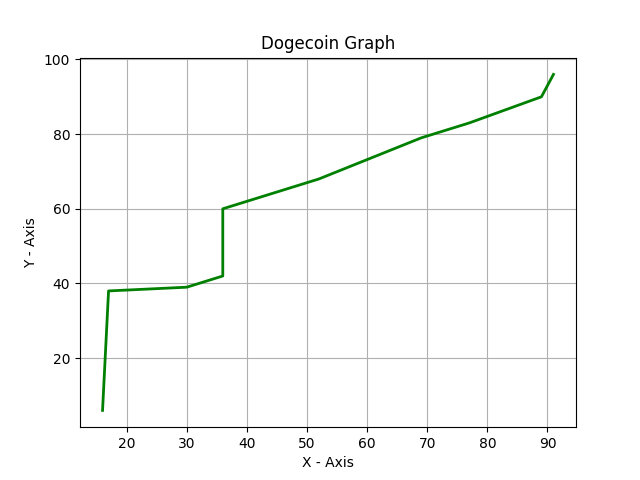
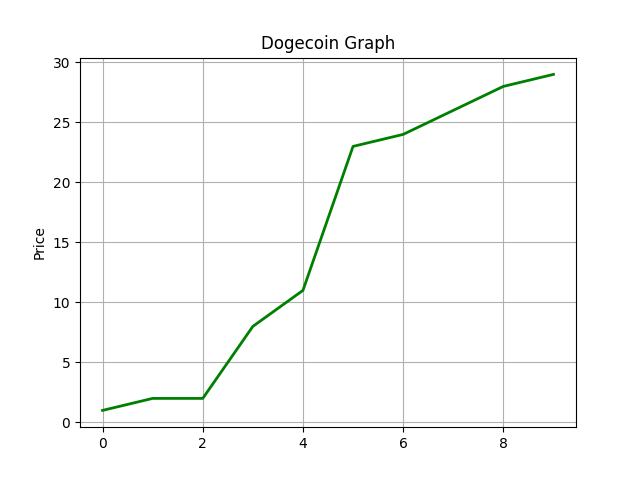
Changed Learn Page to News
Changed Learn Page to News and Updated

diff --git a/templates/explore.html b/templates/explore.html
@@ -2,7 +2,7 @@
 <html lang="en">
 <head>
     <meta charset="UTF-8">
-    <title>Information</title>
+    <title>Crypto Currency Forecasting Model</title>
     <link rel= "stylesheet" type="text/css" href="../static/main.css">
     <script type="text/javascript" src="https://files.coinmarketcap.com/static/widget/currency.js"></script>
 </head>
@@ -14,7 +14,7 @@
             <tr>
                 <td style="font-size:30px;"><a href="/" style = padding-right:20px;>Home</a></td>
                 <td style="font-size:30px;"><a href="explore" style = padding-right:20px;>Explore</a></td>
-                <td style="font-size:30px;"><a href="learn" style = padding-right:20px;>Learn</a></td>
+                <td style="font-size:30px;"><a href="news" style = padding-right:20px;>News</a></td>
                 <td style="font-size:30px;"><a href="aboutus">About Us</a></td>
             </tr>
         </table>

diff --git a/templates/news.html b/templates/news.html
@@ -2,7 +2,7 @@
 <html lang="en">
 <head>
     <meta charset="UTF-8">
-    <title>Home Page</title>
+    <title>News</title>
     <link rel= "stylesheet" type="text/css" href="../static/main.css">
 </head>
 <body>
@@ -19,10 +19,9 @@
         <hr color = "gray">
     </div>
 
-    <p style="font-size:50;">
-        Welcome to the website! This website will be a guide to help you learn more about cryptocurrency. <br>There is also a model that
-        is used to predict the prices of cryptocurrency using K-NN and sentimental analysis from Twitter.
-    </p>
+    <rssapp-wall id="tpPZbQNGxJxT71Wx"></rssapp-wall><script src="https://widget.rss.app/v1/wall.js" type="text/javascript" async></script>
+
+    </div>
 
 </body>
 </html>

diff --git a/templates/aboutus.html b/templates/aboutus.html
@@ -14,7 +14,7 @@
             <tr>
                 <td style="font-size:30px;"><a href="/" style = padding-right:20px;>Home</a></td>
                 <td style="font-size:30px;"><a href="explore" style = padding-right:20px;>Explore</a></td>
-                <td style="font-size:30px;"><a href="learn" style = padding-right:20px;>Learn</a></td>
+                <td style="font-size:30px;"><a href="news" style = padding-right:20px;>News</a></td>
                 <td style="font-size:30px;"><a href="aboutus">About Us</a></td>
             </tr>
         </table>

diff --git a/app.py b/app.py
@@ -1,147 +1,108 @@
-import io
 import os
-import random
 import matplotlib.pyplot as plt
-import pandas as pd
 import numpy as np
-from flask import Flask, render_template, Response
-from flask_sqlalchemy import SQLAlchemy
-from datetime import datetime
+from flask import Flask, render_template
 
-from matplotlib.backends.backend_template import FigureCanvas
-
-app= Flask(__name__)
-app.config['SQLALCHEMY_DATABASE_URI'] = 'sqlite:///information.db'
-db = SQLAlchemy(app)
+app = Flask(__name__)
 
 graphUpload = os.path.dirname('static/image')
 picFolder = os.path.join('static','image')
 
-x = np.random.randint(100, size=10)
-y = np.random.randint(100, size=10)
-x.sort()
+y = np.random.randint(20000, size=10)
 y.sort()
-plt.plot(x, y, color = "green", linewidth = 2)
+plt.plot(y, color = "green", linewidth = 2)
 plt.title("Bitcoin Graph")
-plt.xlabel("X - Axis")
-plt.ylabel("Y - Axis")
+plt.ylabel("Price")
 plt.grid(True)
 
 plt.savefig(graphUpload + '/image/BTCGraph.png')
 plt.clf()
 
-x = np.random.randint(100, size=10)
-y = np.random.randint(100, size=10)
-x.sort()
+y = np.random.randint(1500, size=10)
 y.sort()
-plt.plot(x, y, color = "green", linewidth = 2)
+plt.plot(y, color = "green", linewidth = 2)
 plt.title("Ethereum Graph")
-plt.xlabel("X - Axis")
-plt.ylabel("Y - Axis")
+plt.ylabel("Price")
 plt.grid(True)
 
 plt.savefig(graphUpload + '/image/ETHGraph.png')
 plt.clf()
 
-x = np.random.randint(100, size=10)
-y = np.random.randint(100, size=10)
-x.sort()
+y = np.random.randint(300, size=10)
 y.sort()
-plt.plot(x, y, color = "green", linewidth = 2)
+plt.plot(y, color = "green", linewidth = 2)
 plt.title("BNB Graph")
-plt.xlabel("X - Axis")
-plt.ylabel("Y - Axis")
+plt.ylabel("Price")
 plt.grid(True)
 
 plt.savefig(graphUpload + '/image/BNBGraph.png')
 plt.clf()
 
-x = np.random.randint(100, size=10)
 y = np.random.randint(100, size=10)
-x.sort()
 y.sort()
-plt.plot(x, y, color = "green", linewidth = 2)
+plt.plot(y, color = "green", linewidth = 2)
 plt.title("XRP Graph")
-plt.xlabel("X - Axis")
-plt.ylabel("Y - Axis")
+plt.ylabel("Price")
 plt.grid(True)
 
 plt.savefig(graphUpload + '/image/XRPGraph.png')
 plt.clf()
 
-x = np.random.randint(100, size=10)
-y = np.random.randint(100, size=10)
-x.sort()
+y = np.random.randint(50, size=10)
 y.sort()
-plt.plot(x, y, color = "green", linewidth = 2)
+plt.plot(y, color = "green", linewidth = 2)
 plt.title("Cardano Graph")
-plt.xlabel("X - Axis")
-plt.ylabel("Y - Axis")
+plt.ylabel("Price")
 plt.grid(True)
 
 plt.savefig(graphUpload + '/image/ADAGraph.png')
 plt.clf()
 
-x = np.random.randint(100, size=10)
-y = np.random.randint(100, size=10)
-x.sort()
+y = np.random.randint(40, size=10)
 y.sort()
-plt.plot(x, y, color = "green", linewidth = 2)
+plt.plot(y, color = "green", linewidth = 2)
 plt.title("Solana Graph")
-plt.xlabel("X - Axis")
-plt.ylabel("Y - Axis")
+plt.ylabel("Price")
 plt.grid(True)
 
 plt.savefig(graphUpload + '/image/SOLGraph.png')
 plt.clf()
 
-x = np.random.randint(100, size=10)
-y = np.random.randint(100, size=10)
-x.sort()
+y = np.random.randint(10, size=10)
 y.sort()
-plt.plot(x, y, color = "green", linewidth = 2)
+plt.plot(y, color = "green", linewidth = 2)
 plt.title("Terra Graph")
-plt.xlabel("X - Axis")
-plt.ylabel("Y - Axis")
+plt.ylabel("Price")
 plt.grid(True)
 
 plt.savefig(graphUpload + '/image/LUNAGraph.png')
 plt.clf()
 
-x = np.random.randint(100, size=10)
-y = np.random.randint(100, size=10)
-x.sort()
+y = np.random.randint(20, size=10)
 y.sort()
-plt.plot(x, y, color = "green", linewidth = 2)
+plt.plot(y, color = "green", linewidth = 2)
 plt.title("Avalanche Graph")
-plt.xlabel("X - Axis")
-plt.ylabel("Y - Axis")
+plt.ylabel("Price")
 plt.grid(True)
 
 plt.savefig(graphUpload + '/image/AVAXGraph.png')
 plt.clf()
 
-x = np.random.randint(100, size=10)
-y = np.random.randint(100, size=10)
-x.sort()
+y = np.random.randint(30, size=10)
 y.sort()
-plt.plot(x, y, color = "green", linewidth = 2)
+plt.plot(y, color = "green", linewidth = 2)
 plt.title("Dogecoin Graph")
-plt.xlabel("X - Axis")
-plt.ylabel("Y - Axis")
+plt.ylabel("Price")
 plt.grid(True)
 
 plt.savefig(graphUpload + '/image/DOGEGraph.png')
 plt.clf()
 
-x = np.random.randint(100, size=10)
-y = np.random.randint(100, size=10)
-x.sort()
+y = np.random.randint(10, size=10)
 y.sort()
-plt.plot(x, y, color = "green", linewidth = 2)
+plt.plot(y, color = "green", linewidth = 2)
 plt.title("Polkadot Graph")
-plt.xlabel("X - Axis")
-plt.ylabel("Y - Axis")
+plt.ylabel("Price")
 plt.grid(True)
 
 plt.savefig(graphUpload + '/image/DOTGraph.png')
@@ -168,9 +129,9 @@ def explore():
     return render_template('explore.html', BTCGraph = BTCGraph, ETHGraph = ETHGraph, BNBGraph = BNBGraph, XRPGraph = XRPGraph, ADAGraph = ADAGraph,
                            SOLGraph = SOLGraph, LUNAGraph = LUNAGraph, AVAXGraph = AVAXGraph, DOGEGraph = DOGEGraph, DOTGraph = DOTGraph)
 
-@app.route('/learn')
-def learn():
-    return render_template('learn.html')
+@app.route('/news')
+def news():
+    return render_template('news.html')
 
 @app.route('/aboutus')
 def aboutus():
